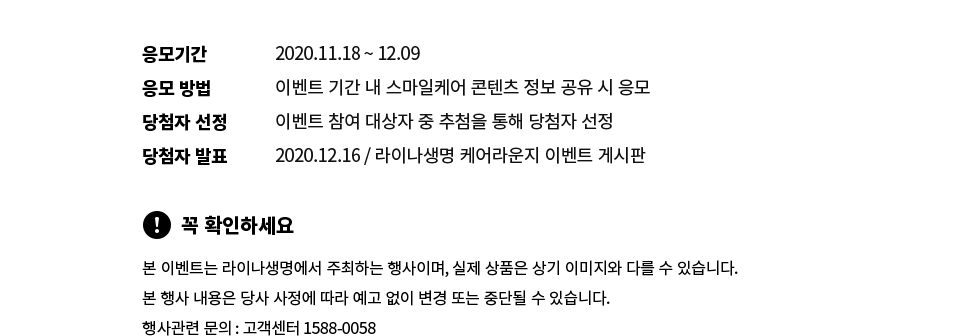
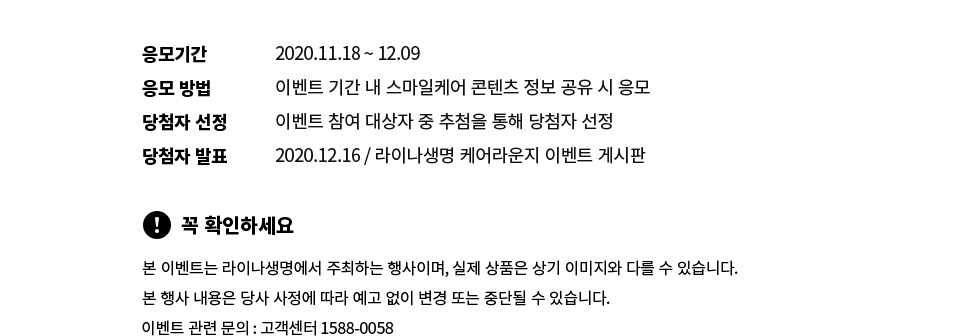
[kje]이벤트 페이지 이미지 변경 작업 완료

Changed region(s): [[0.1224, 0.9524, 0.398, 1.0]]

diff --git a/smileCare/ET-020000.html b/smileCare/ET-020000.html
@@ -474,8 +474,8 @@
 							</a>
 							<a href="javascript:void(0);" class="n3">
 								<span class="hidden">선택됨</span>
-								<img src="./img/evt_anchor3.png" alt="보너스!:App에서 간편비밀번호 등록 이용하기">
-								<span class="link">App에서 간편비밀번호 등록 이용하기</span>
+								<img src="./img/evt_anchor3.png" alt="보너스!:App에서 간편비밀번호 등록하기">
+								<span class="link">App에서 간편비밀번호 등록하기</span>
 							</a>
 						</div>
 					</div>
@@ -573,7 +573,7 @@
 									<li>‘전성기매거진’에 당첨되신 분들은 당첨자 발표 페이지에 주소를 꼭 남겨주세요.</li>
 									<li>본 이벤트는 라이나생명에서 주최하는 행사이며, 실제 상품은 상기 이미지와 다를 수 있습니다.</li>
 									<li>본 행사 내용은 당사 사정에 따라 예고 없이 변경 또는 중단될 수 있습니다.</li>
-									<li>행사관련 문의 : 고객센터 1588-0058</li>
+									<li>이벤트 관련 문의 : 고객센터 1588-0058</li>
 								</ul>
 							</div>
 							<div class="btn-area n3">
@@ -715,7 +715,7 @@
 								<ul class="bul-txt">
 									<li>본 이벤트는 라이나생명에서 주최하는 행사이며, 실제 상품은 상기 이미지와 다를 수 있습니다.</li>
 									<li>본 행사 내용은 당사 사정에 따라 예고 없이 변경 또는 중단될 수 있습니다.</li>
-									<li>행사관련 문의 : 고객센터 1588-0058</li>
+									<li>이벤트 관련 문의 : 고객센터 1588-0058</li>
 								</ul>
 							</div>
 						</div>
@@ -773,7 +773,7 @@
               <ul class="bul-txt">
                 <li>본 이벤트는 라이나생명에서 주최하는 행사이며, 실제 상품은 상기 이미지와 다를 수 있습니다.</li>
                 <li>본 행사 내용은 당사 사정에 따라 예고 없이 변경 또는 중단될 수 있습니다.</li>
-                <li>행사관련 문의 : 고객센터 1588-0058</li>
+                <li>이벤트 관련 문의 : 고객센터 1588-0058</li>
               </ul>
             </div>
 					</section>

diff --git a/smileCare/ET-020000_mo.html b/smileCare/ET-020000_mo.html
@@ -182,7 +182,7 @@
                 <li>‘전성기매거진’에 당첨되신 분들은 당첨자 발표 페이지에 주소를 꼭 남겨주세요.</li>
                 <li>본 이벤트는 라이나생명에서 주최하는 행사이며, 실제 상품은 상기 이미지와 다를 수 있습니다.</li>
                 <li>본 행사 내용은 당사 사정에 따라 예고 없이 변경 또는 중단될 수 있습니다.</li>
-                <li>행사관련 문의 : 고객센터 1588-0058</li>
+                <li>이벤트 관련 문의 : 고객센터 1588-0058</li>
               </ul>
             </div>
 					</section>
@@ -348,7 +348,7 @@
               <ul class="bul-txt">
                 <li>본 이벤트는 라이나생명에서 주최하는 행사이며, 실제 상품은 상기 이미지와 다를 수 있습니다.</li>
                 <li>본 행사 내용은 당사 사정에 따라 예고 없이 변경 또는 중단될 수 있습니다.</li>
-                <li>행사관련 문의 : 고객센터 1588-0058</li>
+                <li>이벤트 관련 문의 : 고객센터 1588-0058</li>
               </ul>
             </div>
 					</section>
@@ -398,7 +398,7 @@
               <ul class="bul-txt">
                 <li>본 이벤트는 라이나생명에서 주최하는 행사이며, 실제 상품은 상기 이미지와 다를 수 있습니다.</li>
                 <li>본 행사 내용은 당사 사정에 따라 예고 없이 변경 또는 중단될 수 있습니다.</li>
-                <li>행사관련 문의 : 고객센터 1588-0058</li>
+                <li>이벤트 관련 문의 : 고객센터 1588-0058</li>
               </ul>
             </div>
 					</section>
